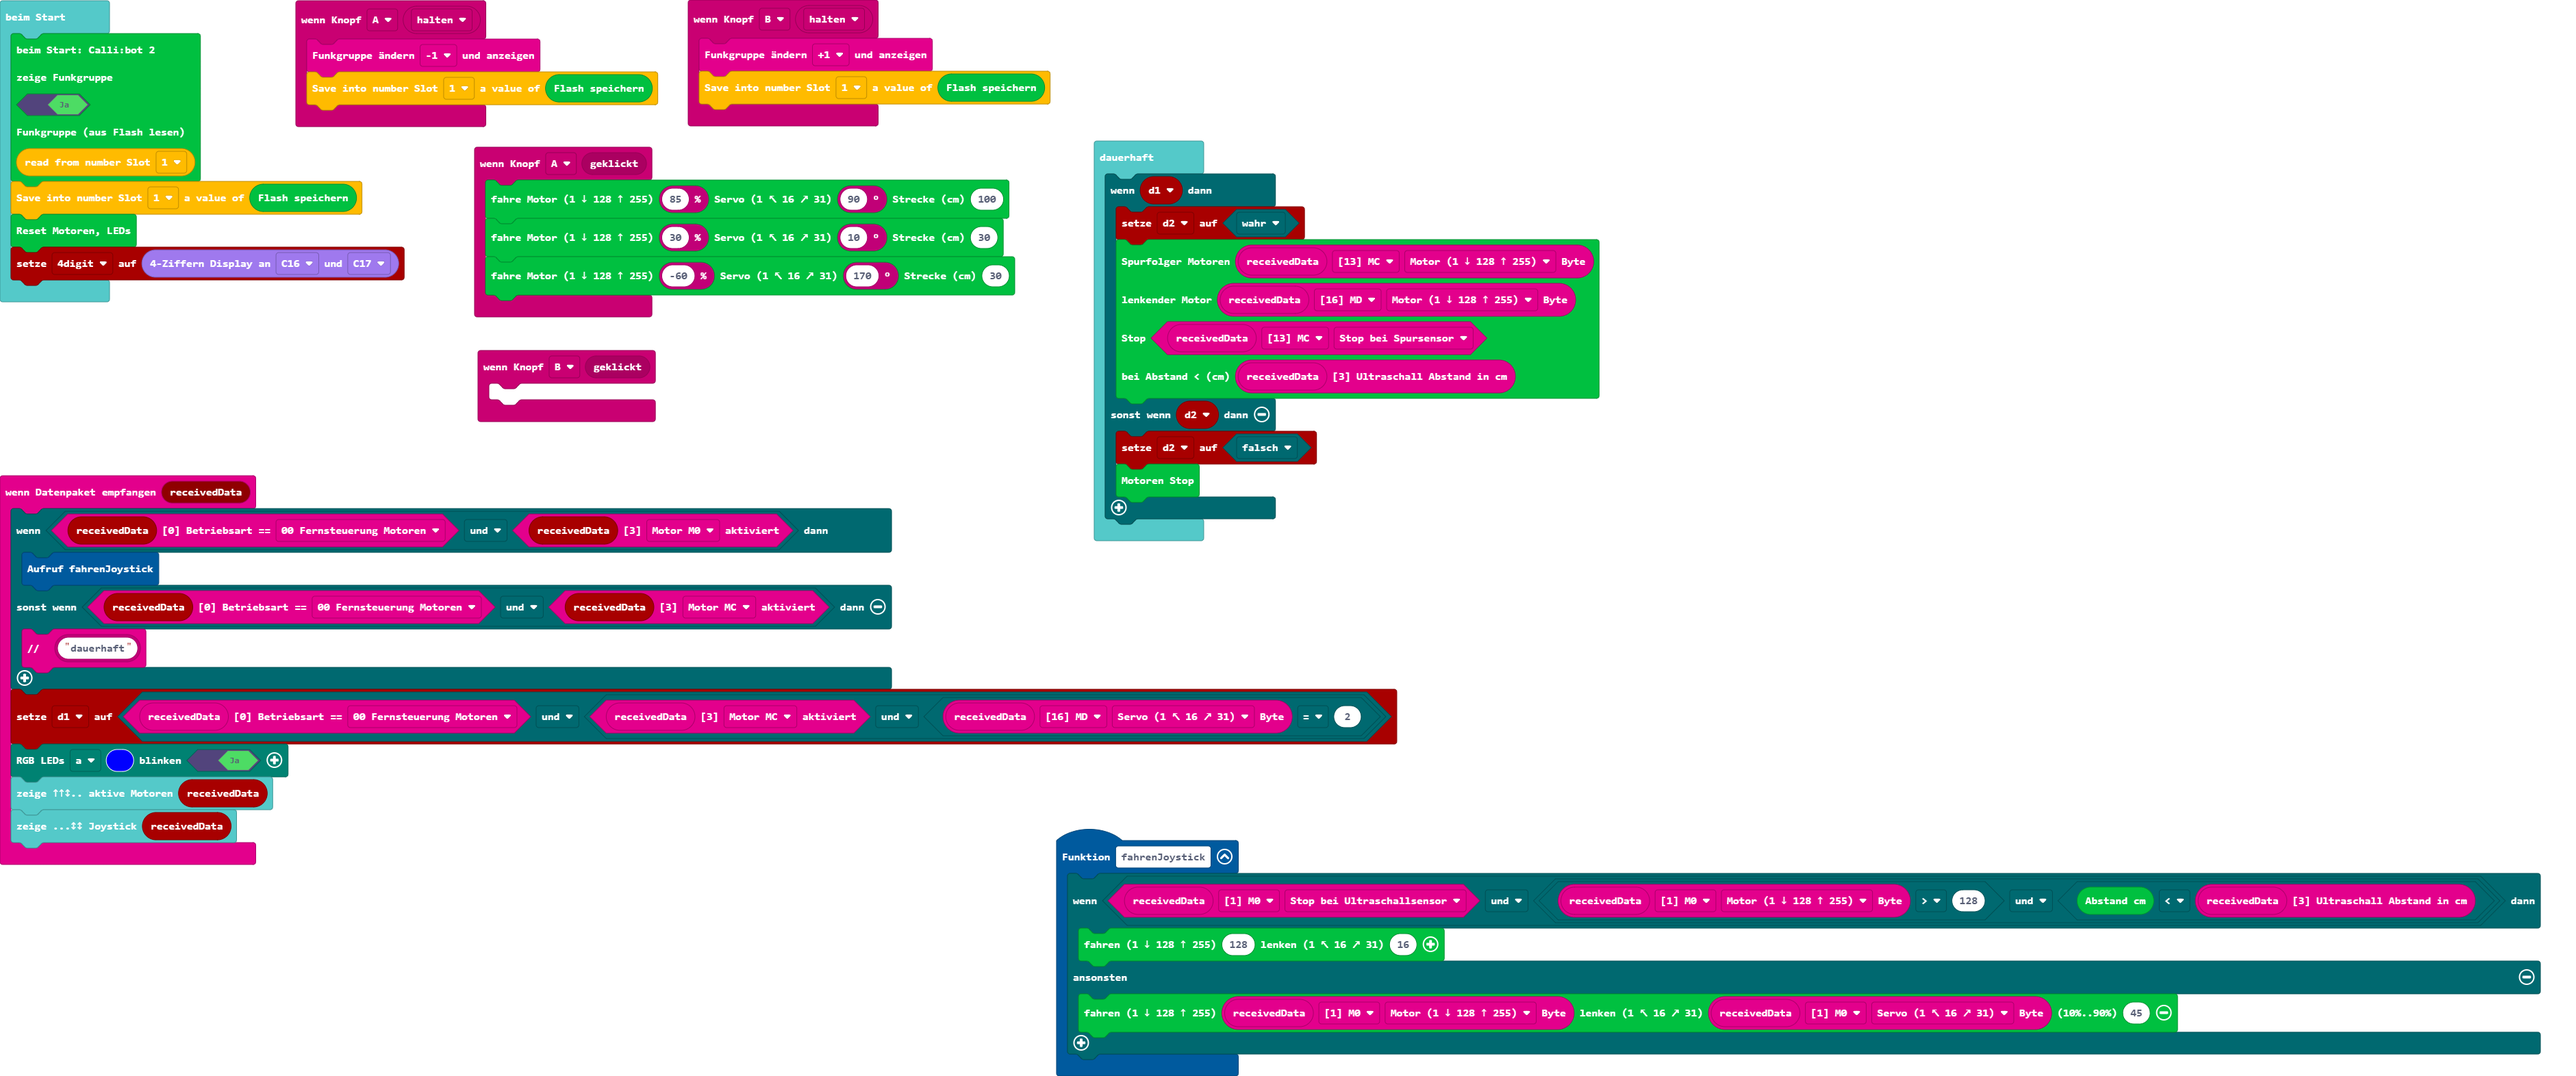
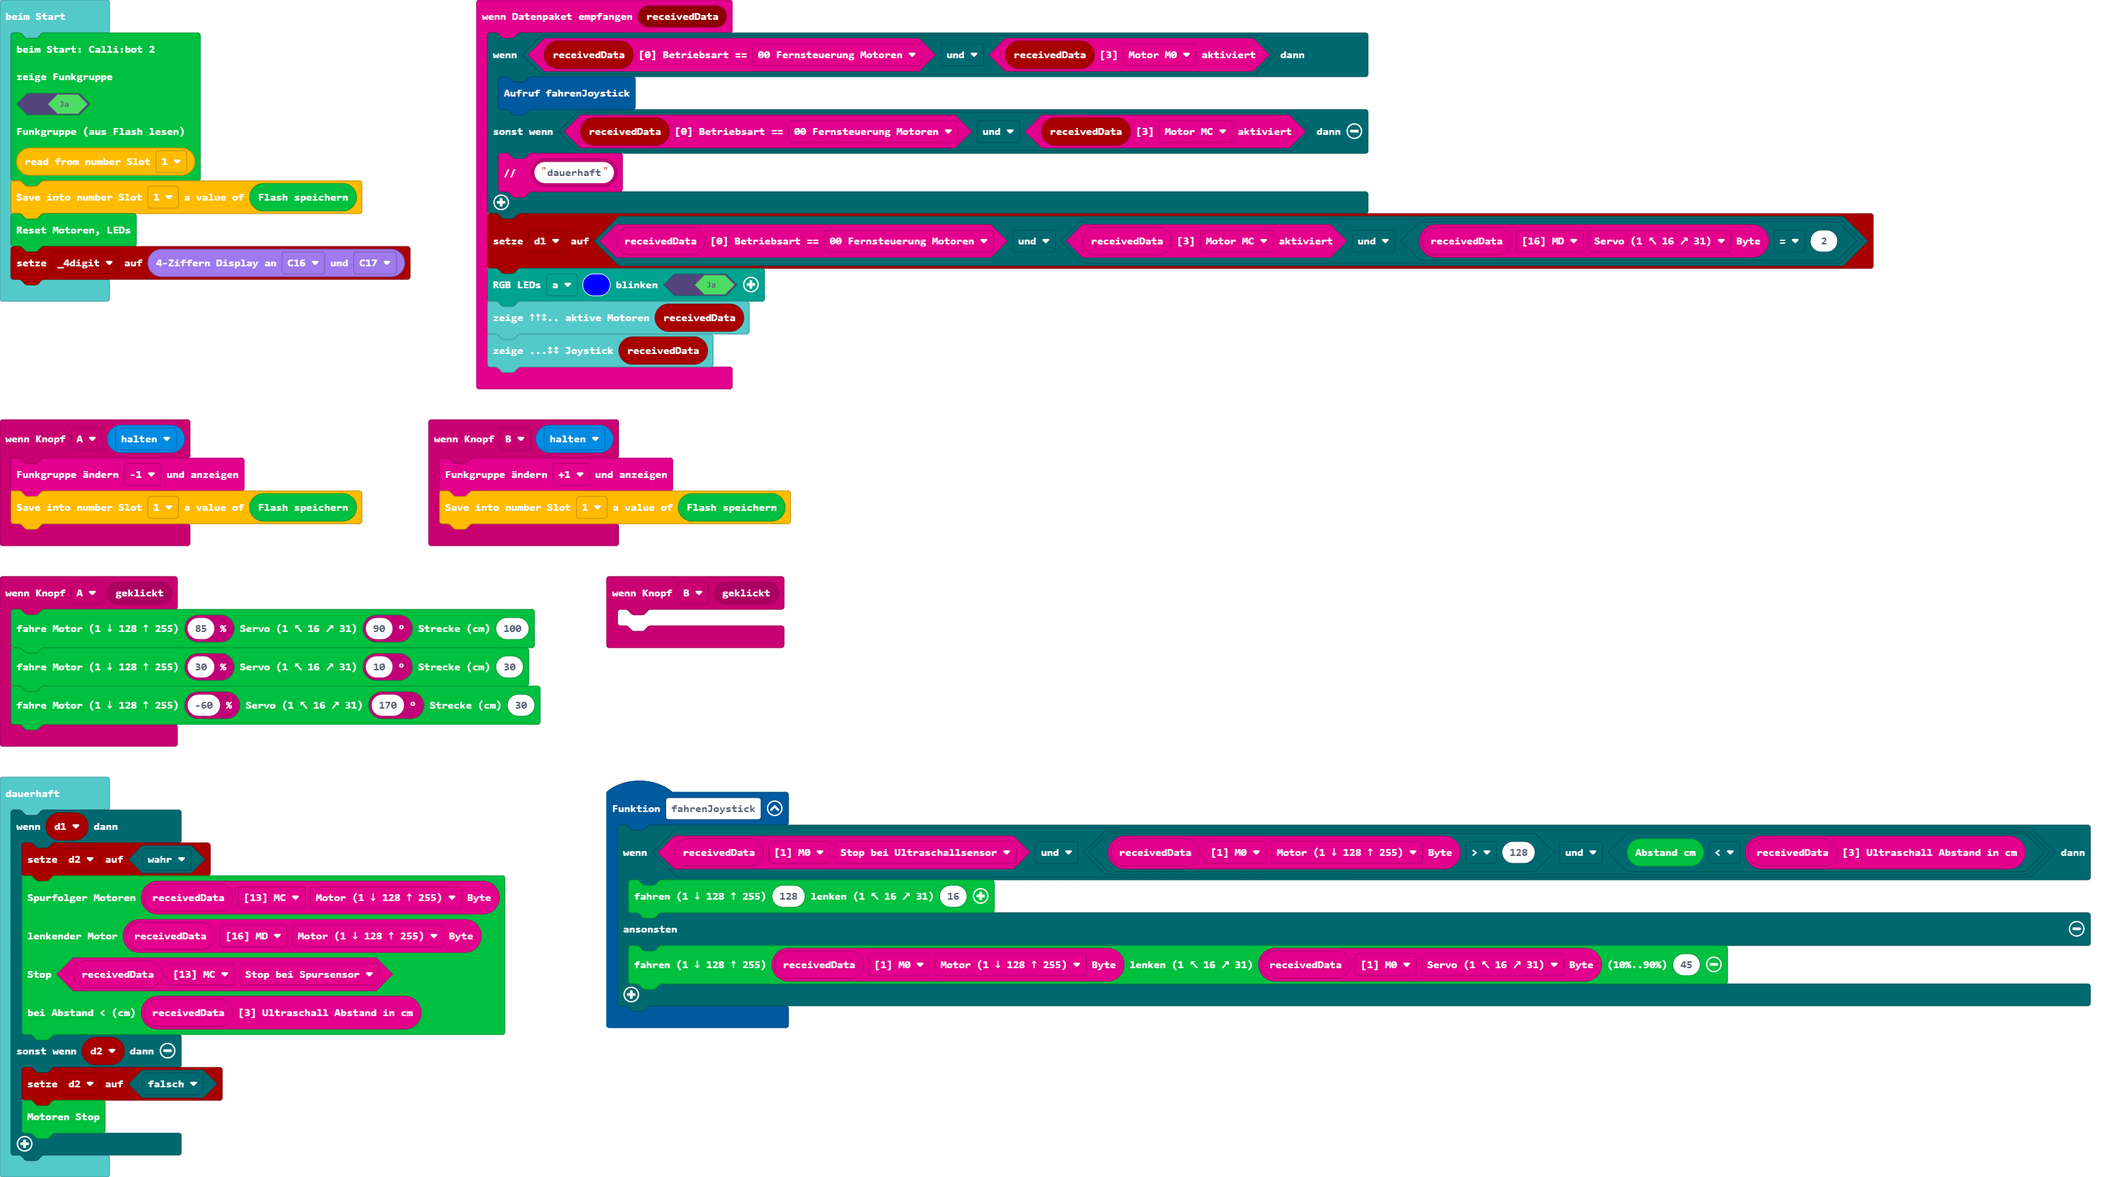
Aktualisiere pxt.json, main.blocks, main.ts

diff --git a/main.ts b/main.ts
@@ -1,35 +1,35 @@
+input.onButtonEvent(Button.A, sender.buttonEvent(ButtonEvent.Hold), function () {
+    btf.setFunkgruppeButton(btf.eFunkgruppeButton.minus)
+    storage.putNumber(StorageSlots.s1, cb2.storageBufferGet())
+})
 input.onButtonEvent(Button.A, input.buttonEventClick(), function () {
-    cb2.fahreStrecke(radio.speedPicker(85), radio.protractorPicker(90), 100)
-    cb2.fahreStrecke(radio.speedPicker(30), radio.protractorPicker(10), 30)
-    cb2.fahreStrecke(radio.speedPicker(-60), radio.protractorPicker(170), 30)
+    cb2.fahreStrecke(btf.speedPicker(85), btf.protractorPicker(90), 100)
+    cb2.fahreStrecke(btf.speedPicker(30), btf.protractorPicker(10), 30)
+    cb2.fahreStrecke(btf.speedPicker(-60), btf.protractorPicker(170), 30)
 })
 input.onButtonEvent(Button.B, input.buttonEventClick(), function () {
 	
 })
 function fahrenJoystick () {
-    if (radio.getSensor(radio.radio_receivedBuffer19(), radio.eBufferPointer.m0, radio.eSensor.b6) && (radio.getByte(radio.radio_receivedBuffer19(), radio.eBufferPointer.m0, radio.eBufferOffset.b0_Motor) > 128 && cb2.readUltraschallAbstand() < radio.getAbstand(radio.radio_receivedBuffer19()))) {
+    if (btf.getSensor(btf.btf_receivedBuffer19(), btf.eBufferPointer.m0, btf.eSensor.b6) && (btf.getByte(btf.btf_receivedBuffer19(), btf.eBufferPointer.m0, btf.eBufferOffset.b0_Motor) > 128 && cb2.readUltraschallAbstand() < btf.getAbstand(btf.btf_receivedBuffer19()))) {
         cb2.writeMotor128Servo16(128, 16)
     } else {
-        cb2.writeMotor128Servo16(radio.getByte(radio.radio_receivedBuffer19(), radio.eBufferPointer.m0, radio.eBufferOffset.b0_Motor), radio.getByte(radio.radio_receivedBuffer19(), radio.eBufferPointer.m0, radio.eBufferOffset.b1_Servo), 45)
+        cb2.writeMotor128Servo16(btf.getByte(btf.btf_receivedBuffer19(), btf.eBufferPointer.m0, btf.eBufferOffset.b0_Motor), btf.getByte(btf.btf_receivedBuffer19(), btf.eBufferPointer.m0, btf.eBufferOffset.b1_Servo), 45)
     }
 }
-radio.onReceivedData(function (receivedData) {
-    if (radio.isBetriebsart(receivedData, radio.e0Betriebsart.p0) && radio.getaktiviert(receivedData, radio.e3aktiviert.m0)) {
+btf.onReceivedData(function (receivedData) {
+    if (btf.isBetriebsart(receivedData, btf.e0Betriebsart.p0) && btf.getaktiviert(receivedData, btf.e3aktiviert.m0)) {
         fahrenJoystick()
-    } else if (radio.isBetriebsart(receivedData, radio.e0Betriebsart.p0) && radio.getaktiviert(receivedData, radio.e3aktiviert.mc)) {
-        radio.comment(radio.radio_text("dauerhaft"))
+    } else if (btf.isBetriebsart(receivedData, btf.e0Betriebsart.p0) && btf.getaktiviert(receivedData, btf.e3aktiviert.mc)) {
+        btf.comment(btf.btf_text("dauerhaft"))
     }
-    d1 = radio.isBetriebsart(radio.radio_receivedBuffer19(), radio.e0Betriebsart.p0) && (radio.getaktiviert(radio.radio_receivedBuffer19(), radio.e3aktiviert.mc) && radio.getByte(radio.radio_receivedBuffer19(), radio.eBufferPointer.md, radio.eBufferOffset.b1_Servo) == 2)
+    d1 = btf.isBetriebsart(btf.btf_receivedBuffer19(), btf.e0Betriebsart.p0) && (btf.getaktiviert(btf.btf_receivedBuffer19(), btf.e3aktiviert.mc) && btf.getByte(btf.btf_receivedBuffer19(), btf.eBufferPointer.md, btf.eBufferOffset.b1_Servo) == 2)
     receiver.rgbLEDs(receiver.eRGBled.a, 0x0000ff, true)
-    radio.zeige5x5Buffer(receivedData)
-    radio.zeige5x5Joystick(receivedData)
+    btf.zeige5x5Buffer(receivedData)
+    btf.zeige5x5Joystick(receivedData)
 })
-input.onButtonEvent(Button.A, ButtonEvent.Hold, function () {
-    radio.setFunkgruppeButton(radio.eFunkgruppeButton.minus)
-    storage.putNumber(StorageSlots.s1, cb2.storageBufferGet())
-})
-input.onButtonEvent(Button.B, ButtonEvent.Hold, function () {
-    radio.setFunkgruppeButton(radio.eFunkgruppeButton.plus)
+input.onButtonEvent(Button.B, sender.buttonEvent(ButtonEvent.Hold), function () {
+    btf.setFunkgruppeButton(btf.eFunkgruppeButton.plus)
     storage.putNumber(StorageSlots.s1, cb2.storageBufferGet())
 })
 let d2 = false
@@ -45,10 +45,10 @@ basic.forever(function () {
     if (d1) {
         d2 = true
         cb2.beispielSpurfolger(
-        radio.getByte(radio.radio_receivedBuffer19(), radio.eBufferPointer.mc, radio.eBufferOffset.b0_Motor),
-        radio.getByte(radio.radio_receivedBuffer19(), radio.eBufferPointer.md, radio.eBufferOffset.b0_Motor),
-        radio.getSensor(radio.radio_receivedBuffer19(), radio.eBufferPointer.mc, radio.eSensor.b5),
-        radio.getAbstand(radio.radio_receivedBuffer19())
+        btf.getByte(btf.btf_receivedBuffer19(), btf.eBufferPointer.mc, btf.eBufferOffset.b0_Motor),
+        btf.getByte(btf.btf_receivedBuffer19(), btf.eBufferPointer.md, btf.eBufferOffset.b0_Motor),
+        btf.getSensor(btf.btf_receivedBuffer19(), btf.eBufferPointer.mc, btf.eSensor.b5),
+        btf.getAbstand(btf.btf_receivedBuffer19())
         )
     } else if (d2) {
         d2 = false
